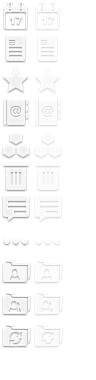
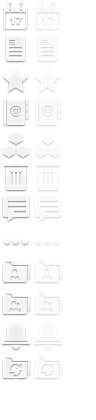
newslidebar

diff --git a/default/common/css/style.css b/default/common/css/style.css
@@ -1407,9 +1407,10 @@ color:#fff;
 }
 
 .launth_pad .launth_pad_left li:hover{background-color:#486EA9}
-.launth_pad .launth_pad_left li.sync i{background-position:0 -320px;}
+.launth_pad .launth_pad_left li.sync i{background-position:0 -352px;}
 .launth_pad .launth_pad_left li.share i{background-position:0 0;}
 .launth_pad .launth_pad_left li.favorite i{background-position:0 -64px;}
+.launth_pad .launth_pad_left li.notices i{background-position:0 -320px;}
 .launth_pad .launth_pad_left li.updates i{background-position:0 0;}
 .launth_pad .launth_pad_left li.contacts i{background-position:0 -96px;}
 .launth_pad .launth_pad_left li.recyclebin i{background-position:0 -160px;}
@@ -2136,6 +2137,7 @@ margin: 15px 0;
 
 /**弹出消息框**/
 .tc_frame .new_tqframe{
+   cursor:pointer;
     height:310px;overflow:scroll;overflow:scroll;padding:0 6px 0 12px;font:bold 13px "微软雅黑";color:#64727C;background:#FFF;}
 .tc_frame .new_tqframe_header{height:30px;line-height:30px;border-bottom: 1px solid #DDD;}
 .tc_frame .new_tqframe_header span:nth-child(1){margin:0 7px 0 14px;}

diff --git a/default/chs/tcframe.html b/default/chs/tcframe.html
@@ -14,6 +14,9 @@
             }
             function fetchUpdate(){
                 var new_tqframe_body = $(".new_tqframe_body");
+				 $(new_tqframe_body).on("click",function(){
+				  gkClientInterface.launchpad(JSON.stringify({tab:"notices"}));//notices
+				})
                 var data = gkClientInterface.getMessage();
 				//如果今天就显示时分，如果是今天以前就是月日
 				//hover显示年月日
@@ -36,6 +39,7 @@
                 initWebHref();
                 var update_me = $("#update_me"),
                      update_all = $("#update_all");
+			   
                 update_all.on("click",function(){
                     var   params = {
                         url: '/client/client?ac=updates',

diff --git a/default/common/js/sidebar.js b/default/common/js/sidebar.js
@@ -316,7 +316,7 @@ var gkClientSidebar = {
        //历史版本
        fileInfoWrapper.find('.version').click(function(){
            var params = {
-               url: '/client/client_file_detail?tab=dynamic&fullpath=' + encodeURIComponent(PAGE_CONFIG.path),
+               url: '/client/client_file_detail?tab=dynamic&flag=version&fullpath=' + encodeURIComponent(PAGE_CONFIG.path),
                sso: 1,
                resize: 0,
                width: 800,

diff --git a/default/common/js/launchpad.js b/default/common/js/launchpad.js
@@ -24,10 +24,10 @@ var gkClientLaunchPad = {
                 sso:1
             },
             {
-                url:'/client/client?ac=contacts',
-                name:'联系人',
+                url:'/client/client?ac=notices',
+                name:'消息',
                 icon:'',
-                classes:'contacts',
+                classes:'notices',
                 sso:1
             },
             {

diff --git a/default/common/js/interface.js b/default/common/js/interface.js
@@ -205,9 +205,14 @@ var gkClientInterface = {
             throw e;
         }
     },
-    launchpad: function() {
+    launchpad: function(path) {
         try {
-            gkClient.gLaunchpad();
+		    if(path){
+             gkClient.gLaunchpad(path);
+			 return;
+			}
+			gkClient.gLaunchpad();
+			
         } catch (e) {
             throw e;
         }

diff --git a/default/chs/index.html b/default/chs/index.html
@@ -81,7 +81,7 @@
     </ul>
     {{/if}}
     {{else}}
-    <div class="empty">没有讨论</div>
+    <div class="empty">没有更新</div>
     {{/if}}
     {{if typeof(isItem)==='undefined' || !isItem}}
     <div class="post_wrapper">
